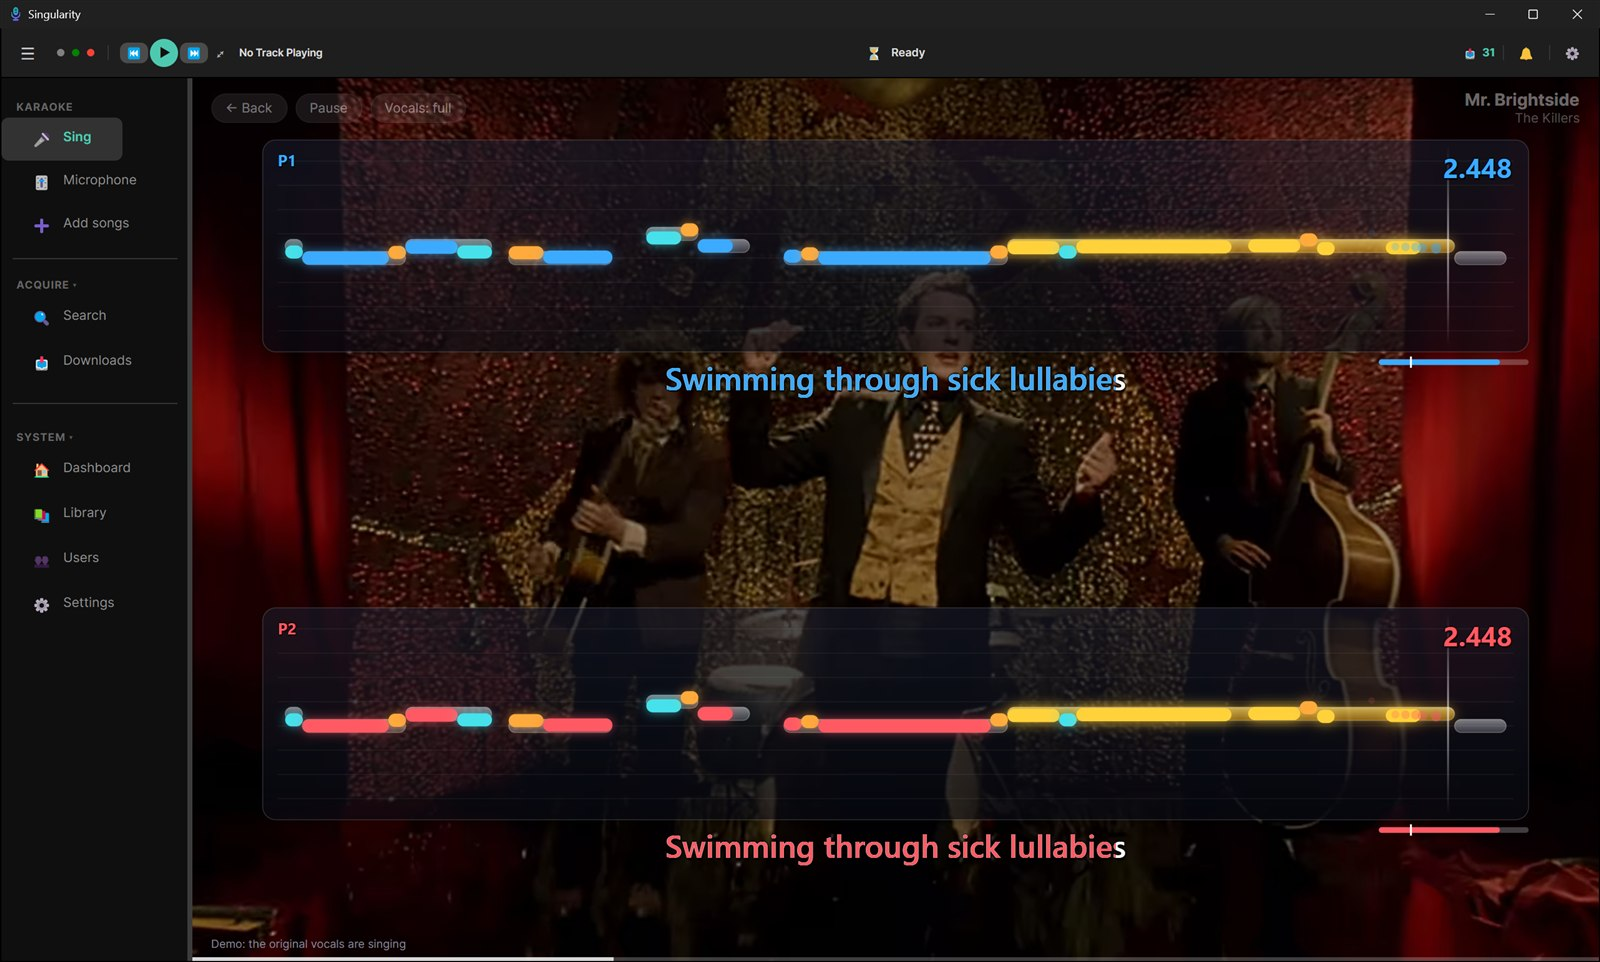
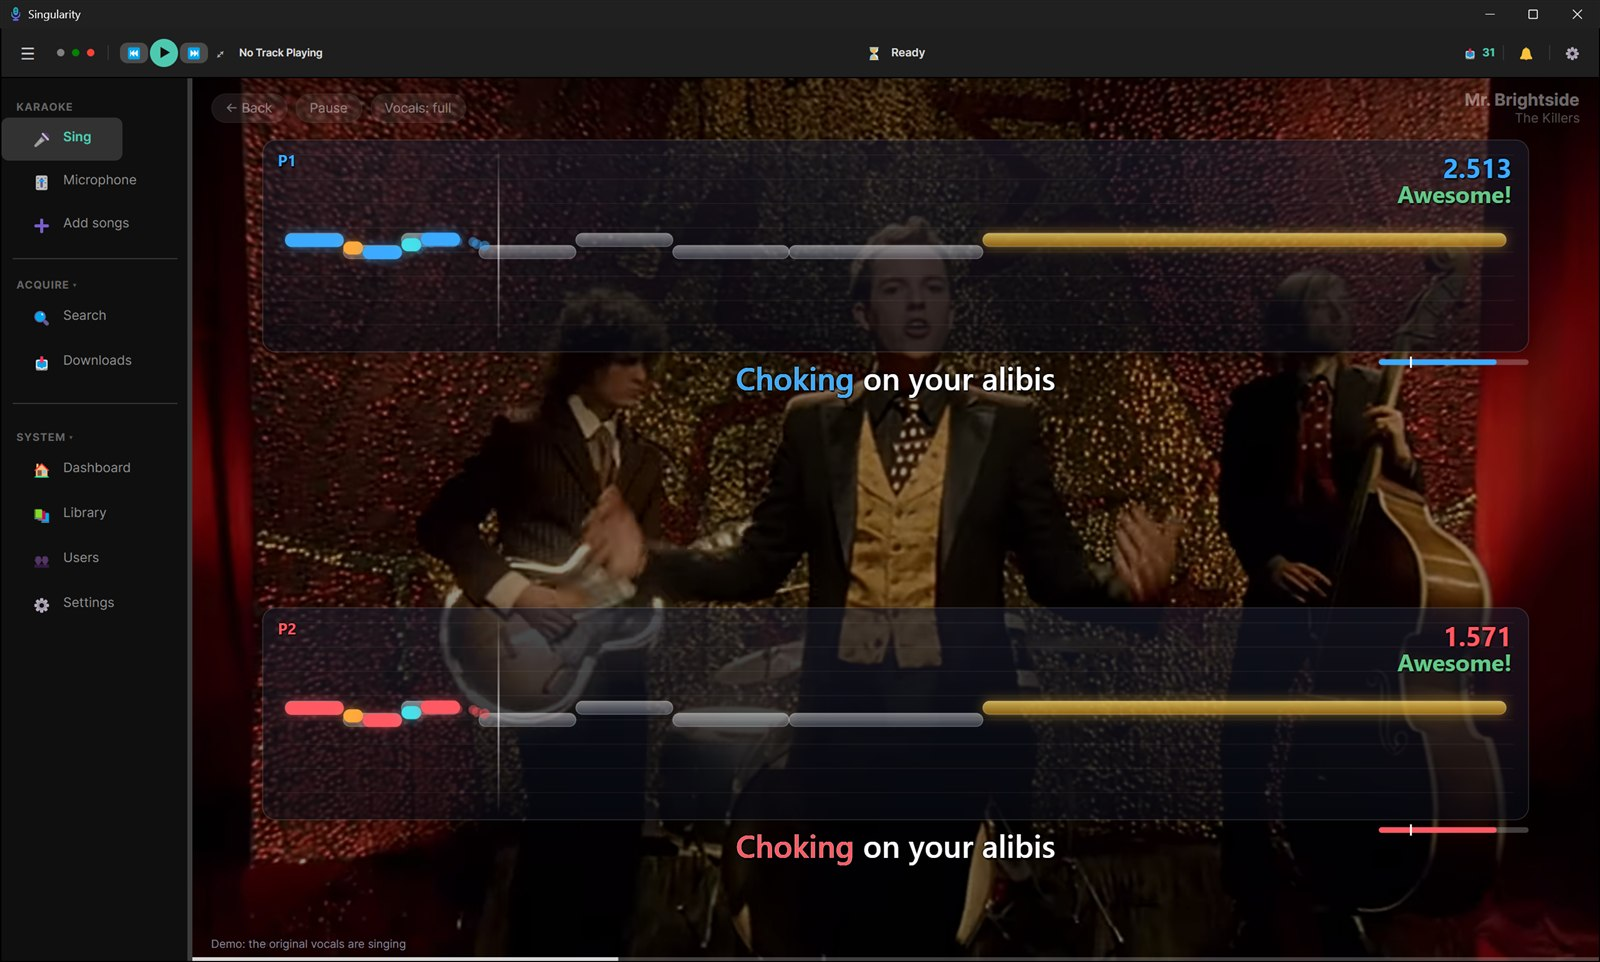
docs: screenshots with two different singers; the demo's player 2 drops out
With --demo-singer every player sang the same vocals, so two singers showed
the same score and the screenshots looked broken. Player 2 now drops out
for 2.5 s of every 7 s: Mr. Brightside ends 8,700 against 5,500.

diff --git a/ViewModels/Karaoke/SingViewModel.cs b/ViewModels/Karaoke/SingViewModel.cs
@@ -594,7 +594,9 @@ public sealed class SingViewModel : ReactiveObject, IDisposable
 
     /// <summary>
     /// --demo-singer: every singer "sings" the song's separated original vocals, pushed into their sessions as the
-    /// playback clock passes them, the way a microphone delivers blocks. False when the song has no vocals stem.
+    /// playback clock passes them, the way a microphone delivers blocks. Player 1 sings them whole; the others drop
+    /// out for part of every few seconds, like a second singer who doesn't know the song as well, so their scores
+    /// differ. False when the song has no vocals stem.
     /// </summary>
     private bool StartDemoSinger(UltraStarSong song)
     {
@@ -631,6 +633,11 @@ public sealed class SingViewModel : ReactiveObject, IDisposable
                 p.Session.Scorer.LineCompleted += line => { player.LastLine = line; player.LastLineBeat = song.MsToBeat(_audio.PositionMs); };
             }
         }
+        // The other singers: silent for the last 2.5 s of every 7 s.
+        var weaker = (float[])mono.Clone();
+        for (int i = 0; i < weaker.Length; i++)
+            if (i % (rate * 7) >= rate * 4.5) weaker[i] = 0;
+
         long pushed = -1;
         _demoTimer = new System.Threading.Timer(_ =>
         {
@@ -640,8 +647,8 @@ public sealed class SingViewModel : ReactiveObject, IDisposable
                 long now = Math.Min(mono.Length, (long)(_audio.PositionMs * rate / 1000));
                 if (pushed < 0 || now < pushed || now - pushed > rate) pushed = Math.Max(0, now - rate / 50); // start, seek or stall
                 if (now <= pushed) return;
-                var block = mono.AsSpan((int)pushed, (int)(now - pushed));
-                foreach (var p in _players) p.Session?.Push(block, pushed * 1000.0 / rate);
+                for (int i = 0; i < _players.Count; i++)
+                    _players[i].Session?.Push((i == 0 ? mono : weaker).AsSpan((int)pushed, (int)(now - pushed)), pushed * 1000.0 / rate);
                 pushed = now;
             }
         }, null, 0, 20);

diff --git a/DOCS/DEVELOPMENT.md b/DOCS/DEVELOPMENT.md
@@ -32,7 +32,7 @@ cd inference
 | `--open-page <key>` | Opens a page at startup: `Karaoke` (Sing), `Sing`, `MicSetup`, `AddSongs`, `Projects` (Downloads), `Settings`, `Library`, `NowPlaying`, `Search`, `Home`, `Users` |
 | `--sing "<song folder>"` | Starts singing that song at startup |
 | `--sing-start <seconds>` | …that many seconds in |
-| `--demo-singer` | The song's separated original vocals sing instead of the microphones: try the stage, scoring and results without singing (no high scores are saved) |
+| `--demo-singer` | The song's separated original vocals sing instead of the microphones: player 1 whole, player 2 dropping out for 2.5 s of every 7, so the scores differ. Try the stage, scoring and results without singing (no high scores are saved) |
 | `--players 2` | Adds a second singer on player 1's microphone, for this run |
 | `--stage "x,y"` | Shows the stage on the display at that desktop position, for this run |
 | `--stage window` | Shows the stage in an ordinary window that doesn't take the focus (preview the projector on one screen) |

diff --git a/README.md b/README.md
@@ -69,7 +69,7 @@ ORBIT's search, download, library and playlist engine and builds the karaoke gam
 | **Add songs** | **Singing** |
 | <img src="DOCS/images/add-songs.jpg" alt="Add songs: one box for Spotify links or Artist - Title lines"> | <img src="DOCS/images/singing.jpg" alt="The stage while singing"> |
 
-The singing shots were taken with `--demo-singer`: the song's separated original vocals sing into the scorer.
+The singing shots were taken with `--demo-singer`: the song's separated original vocals sing into the scorer (player 2 drops out now and then, so the scores differ).
 
 ## How a song is made
 
